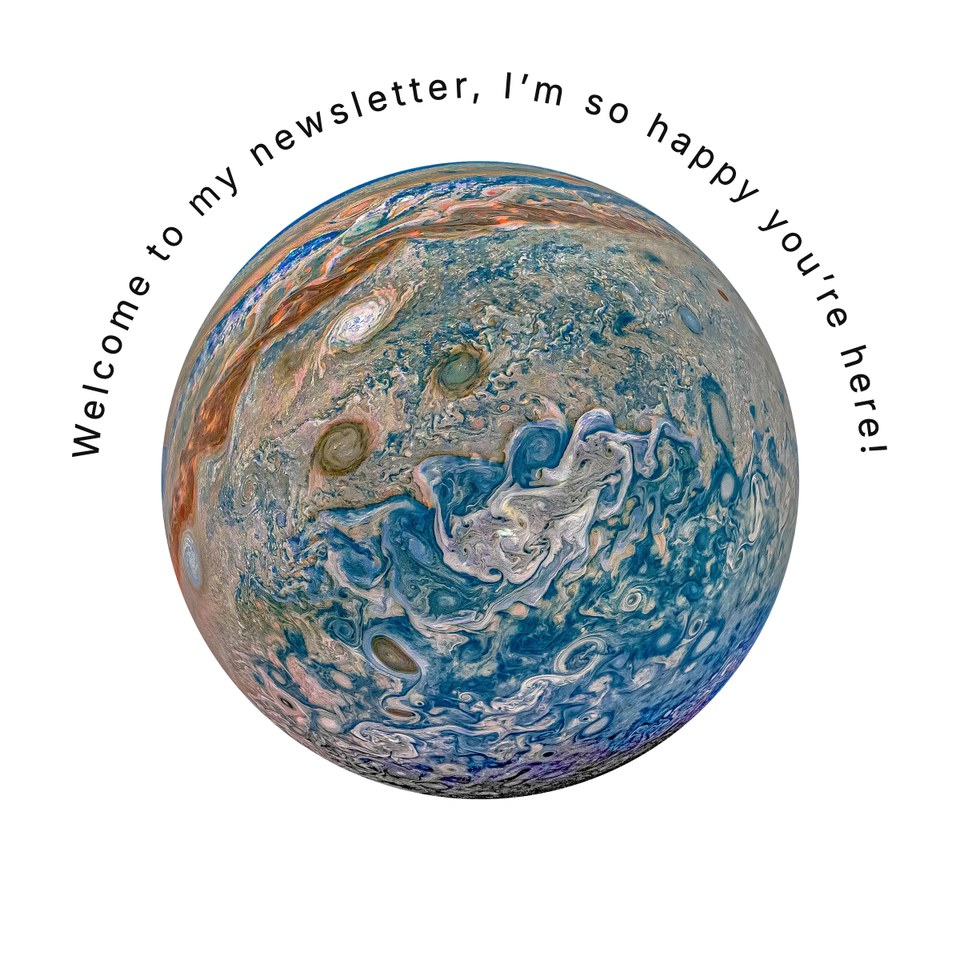
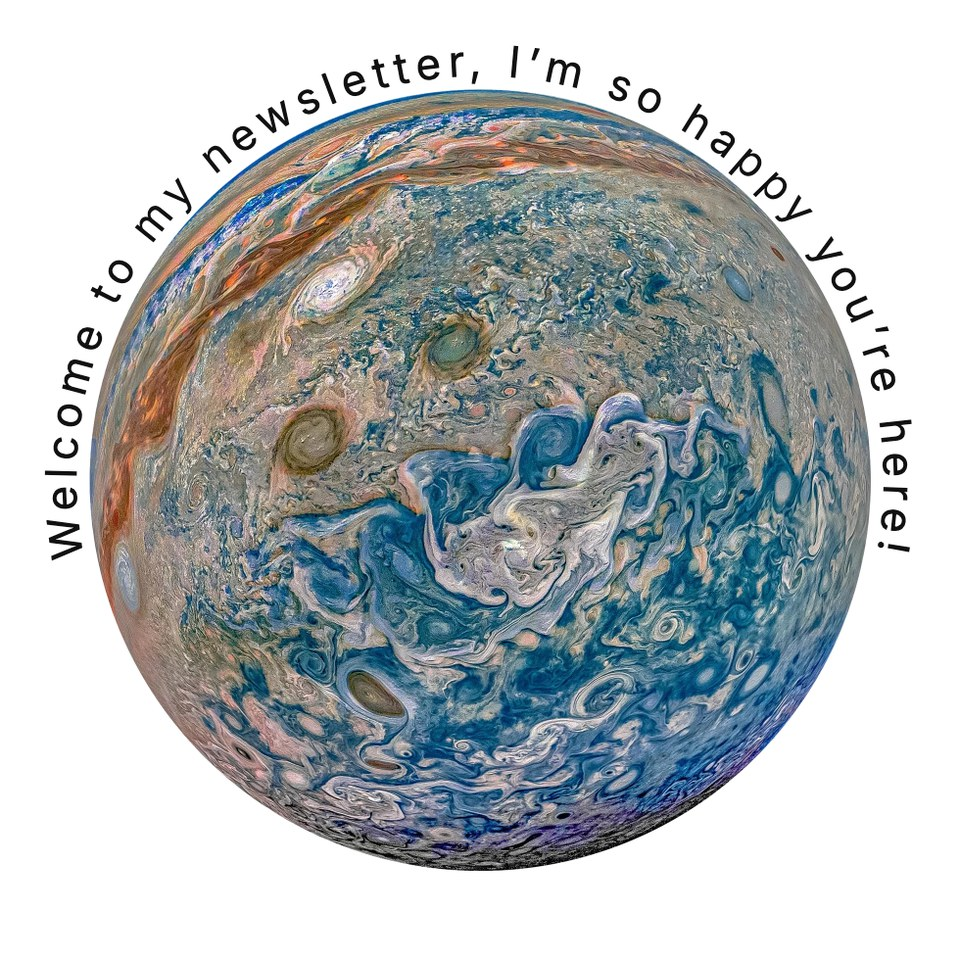
Welcome image: text hugs Jupiter's edge, full sentence

diff --git a/emails/welcome-jupiter-source.html b/emails/welcome-jupiter-source.html
@@ -2,9 +2,9 @@
 <link rel="stylesheet" href="https://fonts.googleapis.com/css2?family=Inter:wght@400&display=block">
 <style>html,body{margin:0;background:#fff}svg{display:block}</style>
 <svg width="1200" height="1200" viewBox="0 0 1200 1200" xmlns="http://www.w3.org/2000/svg">
-  <defs><path id="ring" d="M 600,600 m -478,0 a 478,478 0 1,1 956,0 a 478,478 0 1,1 -956,0"/></defs>
+  <defs><path id="ring" d="M 600,1012 a 412,412 0 1,1 0,-824 a 412,412 0 1,1 0,824"/></defs>
   <image href="../assets/jupiter.webp" x="200" y="200" width="800" height="800"/>
   <text font-family="Inter" font-size="44" fill="#111" letter-spacing="7">
-    <textPath href="#ring" startOffset="25%" text-anchor="middle">Welcome to my newsletter, I’m so happy you’re here!</textPath>
+    <textPath href="#ring" startOffset="50%" text-anchor="middle">Welcome to my newsletter, I’m so happy you’re here!</textPath>
   </text>
 </svg>
